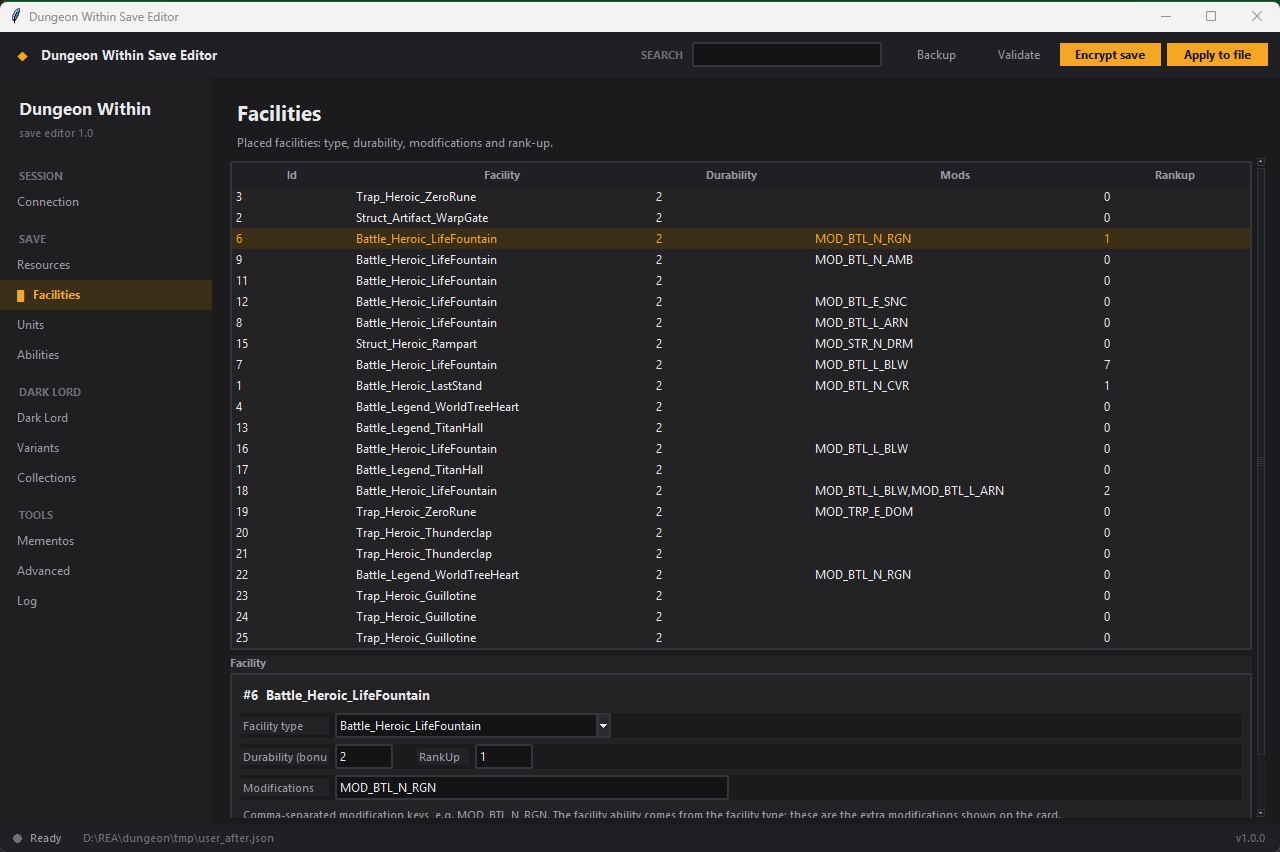
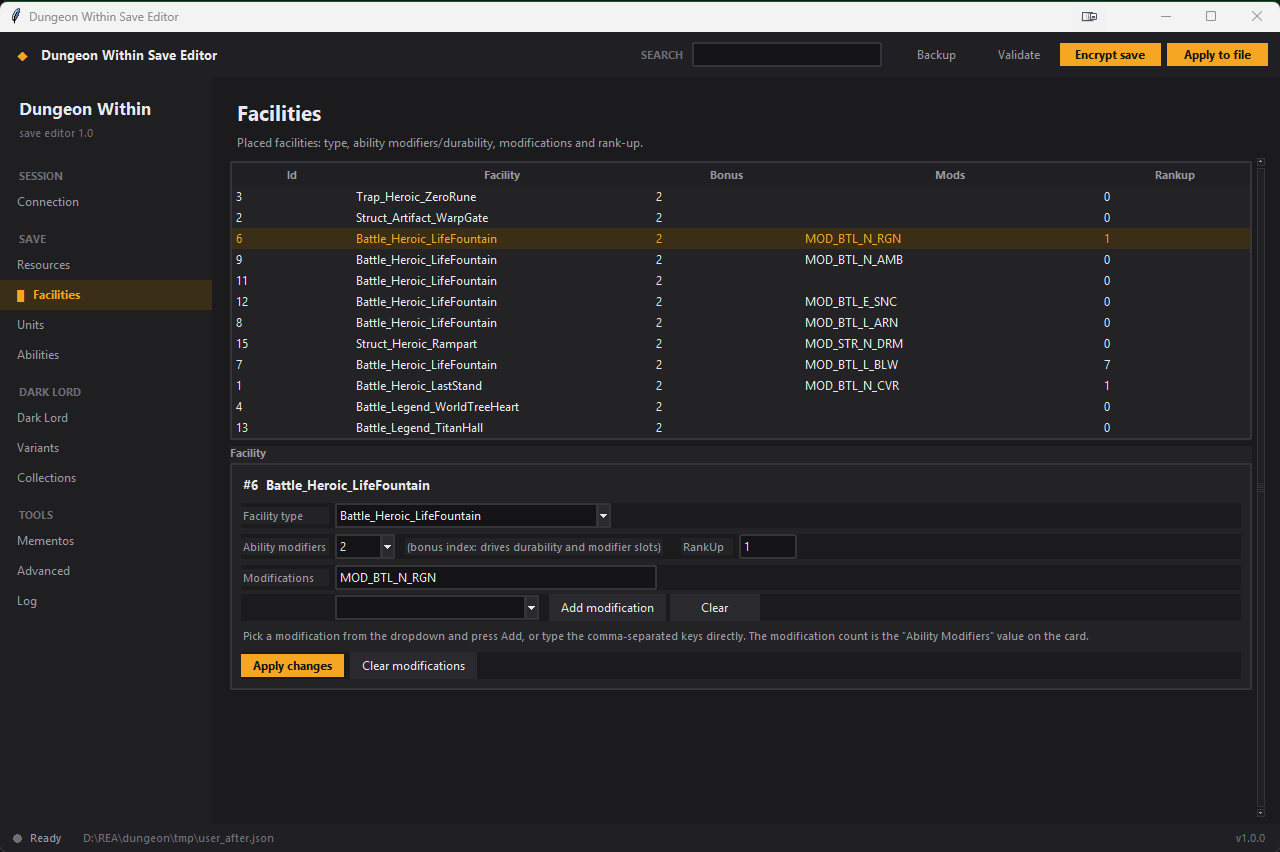
Facilities: ability modifier field + modification picker (dropdown and text)

diff --git a/tools/dw_save_gui.py b/tools/dw_save_gui.py
@@ -234,7 +234,7 @@ class App(tk.Tk):
                 ('Resources', self.tab_res, 'Resources',
                  'Currencies and resources stored in USER_DATA.storage.'),
                 ('Facilities', self.tab_fac, 'Facilities',
-                 'Placed facilities: type, durability, modifications and rank-up.'),
+                 'Placed facilities: type, ability modifiers/durability, modifications and rank-up.'),
                 ('Units', self.tab_units, 'Units',
                  'Monster roster: progress, stats, traits and variants.'),
                 ('Abilities', self.tab_abil, 'Abilities',
@@ -349,9 +349,9 @@ class App(tk.Tk):
 
     def _build_facilities(self):
         f = self.tab_fac
-        cols = ('id', 'facility', 'durability', 'mods', 'rankup')
-        self.fac_tree = ttk.Treeview(f, columns=cols, show='headings', height=22)
-        for c, w in (('id', 50), ('facility', 230), ('durability', 90), ('mods', 220), ('rankup', 80)):
+        cols = ('id', 'facility', 'bonus', 'mods', 'rankup')
+        self.fac_tree = ttk.Treeview(f, columns=cols, show='headings', height=12)
+        for c, w in (('id', 50), ('facility', 230), ('bonus', 80), ('mods', 230), ('rankup', 80)):
             self.fac_tree.heading(c, text=c.capitalize())
             self.fac_tree.column(c, width=w, anchor='w')
         self.fac_tree.pack(fill='x', padx=(4, 4), pady=(4, 6))
@@ -370,9 +370,13 @@ class App(tk.Tk):
         self.fac_key_combo.pack(side='left', padx=6)
 
         row2 = ttk.Frame(card); row2.pack(fill='x', pady=(6, 0))
-        ttk.Label(row2, text='Durability (bonus)', style='CardMuted.TLabel', width=14).pack(side='left')
+        ttk.Label(row2, text='Ability modifiers', style='CardMuted.TLabel', width=14).pack(side='left')
         self.fac_bonus = tk.StringVar()
-        ttk.Entry(row2, textvariable=self.fac_bonus, width=8).pack(side='left', padx=6)
+        self.fac_bonus_combo = ttk.Combobox(row2, textvariable=self.fac_bonus, width=6,
+                                            values=[str(i) for i in range(0, 11)])
+        self.fac_bonus_combo.pack(side='left', padx=6)
+        ttk.Label(row2, text='(bonus index: drives durability and modifier slots)',
+                  style='CardMuted.TLabel').pack(side='left', padx=(4, 0))
         ttk.Label(row2, text='RankUp', style='CardMuted.TLabel', width=8).pack(side='left', padx=(18, 0))
         self.fac_rankup = tk.StringVar()
         ttk.Entry(row2, textvariable=self.fac_rankup, width=8).pack(side='left', padx=6)
@@ -380,10 +384,19 @@ class App(tk.Tk):
         row3 = ttk.Frame(card); row3.pack(fill='x', pady=(6, 0))
         ttk.Label(row3, text='Modifications', style='CardMuted.TLabel', width=14).pack(side='left')
         self.fac_mods = tk.StringVar()
-        ttk.Entry(row3, textvariable=self.fac_mods, width=64).pack(side='left', padx=6)
-        ttk.Label(card, text='Comma-separated modification keys, e.g. MOD_BTL_N_RGN. '
-                             'The facility ability comes from the facility type; '
-                             'these are the extra modifications shown on the card.',
+        ttk.Entry(row3, textvariable=self.fac_mods, width=52).pack(side='left', padx=6)
+
+        row3b = ttk.Frame(card); row3b.pack(fill='x', pady=(4, 0))
+        ttk.Label(row3b, text='', width=14).pack(side='left')
+        self.fac_mod_pick = tk.StringVar()
+        self.fac_mod_combo = ttk.Combobox(row3b, textvariable=self.fac_mod_pick, width=30,
+                                          values=ed.facility_prefix_catalog())
+        self.fac_mod_combo.pack(side='left', padx=6)
+        ttk.Button(row3b, text='Add modification', command=self.on_add_mod).pack(side='left', padx=4)
+        ttk.Button(row3b, text='Clear', command=lambda: self.fac_mods.set('')).pack(side='left')
+        ttk.Label(card, text='Pick a modification from the dropdown and press Add, or type the '
+                             'comma-separated keys directly. The modification count is the '
+                             '"Ability Modifiers" value on the card.',
                   style='CardMuted.TLabel').pack(anchor='w', pady=(6, 0))
 
         row4 = ttk.Frame(card); row4.pack(fill='x', pady=(8, 0))
@@ -391,6 +404,15 @@ class App(tk.Tk):
                    command=self.on_set_facility).pack(side='left')
         ttk.Button(row4, text='Clear modifications',
                    command=lambda: self.fac_mods.set('')).pack(side='left', padx=6)
+
+    def on_add_mod(self):
+        key = (self.fac_mod_pick.get() or '').strip()
+        if not key:
+            return
+        mods = [m.strip() for m in self.fac_mods.get().split(',') if m.strip()]
+        if key not in mods:
+            mods.append(key)
+        self.fac_mods.set(','.join(mods))
 
     def _refresh_facilities(self):
         if not hasattr(self, 'fac_tree'):

diff --git a/tools/dw_save_editor.py b/tools/dw_save_editor.py
@@ -867,6 +867,21 @@ def facility_catalog():
     return []
 
 
+def facility_prefix_catalog():
+    candidates = [os.path.join(os.path.dirname(os.path.abspath(__file__)), 'facility_prefixes.json')]
+    base = getattr(sys, '_MEIPASS', None)
+    if base:
+        candidates.insert(0, os.path.join(base, 'facility_prefixes.json'))
+    candidates.append(os.path.join(os.getcwd(), 'facility_prefixes.json'))
+    for cat in candidates:
+        if os.path.exists(cat):
+            try:
+                return json.load(open(cat, encoding='utf-8'))
+            except Exception:
+                pass
+    return []
+
+
 def mw_spans(text):
     ai, aj = array_span(text, 'USER_DATA.mwExp')
     return list(split_children(text, (ai, aj), '['))

diff --git a/version.py b/version.py
@@ -1,3 +1,3 @@
 APP_NAME = 'Dungeon Within Save Editor'
-VERSION = '1.1.0'
+VERSION = '1.2.0'
 GAME = 'Dungeon Within v0.7.0 (b.209)'

diff --git a/CHANGELOG.md b/CHANGELOG.md
@@ -1,5 +1,11 @@
 # Changelog
 
+## 1.2.0
+
+- Facilities: ability-modifier field plus a modification picker (dropdown + Add, still editable as a
+  comma-separated list); the modification list is the card's Ability Modifiers count.
+- Facility table shows the bonus index and modification list, and fits without scrolling.
+
 ## 1.1.0
 
 - New **Facilities** tab: facility type (facKey), durability (bonus), modification list
